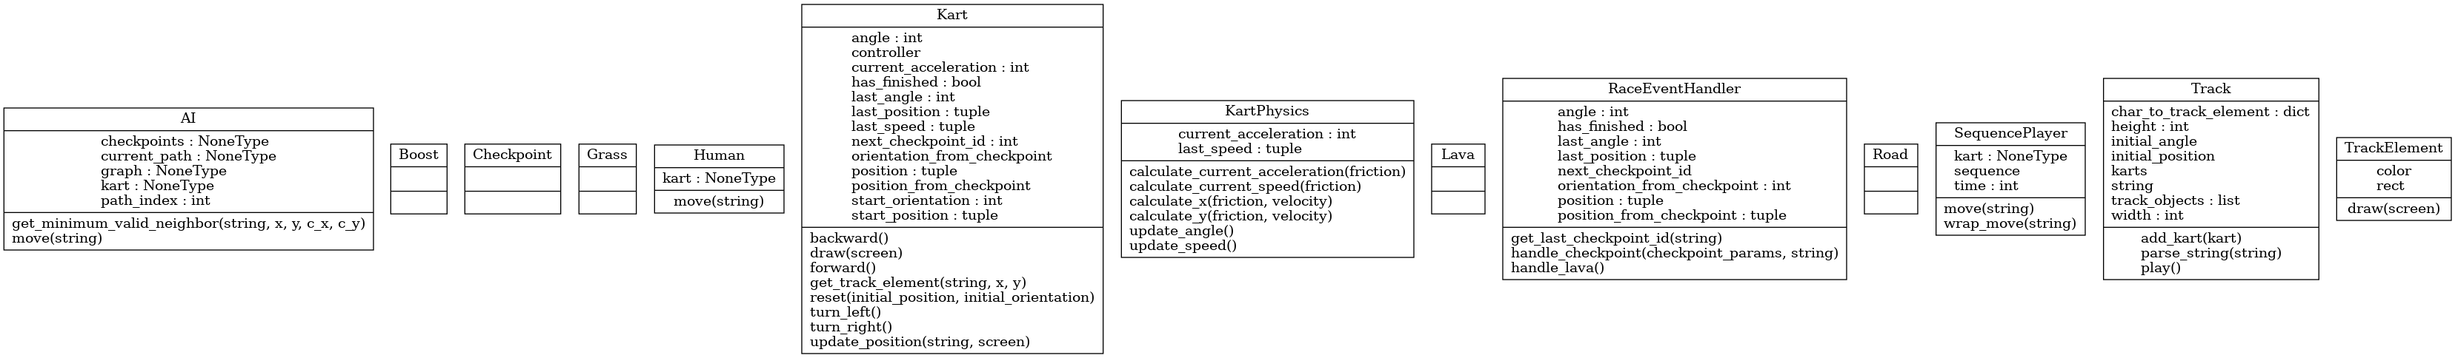
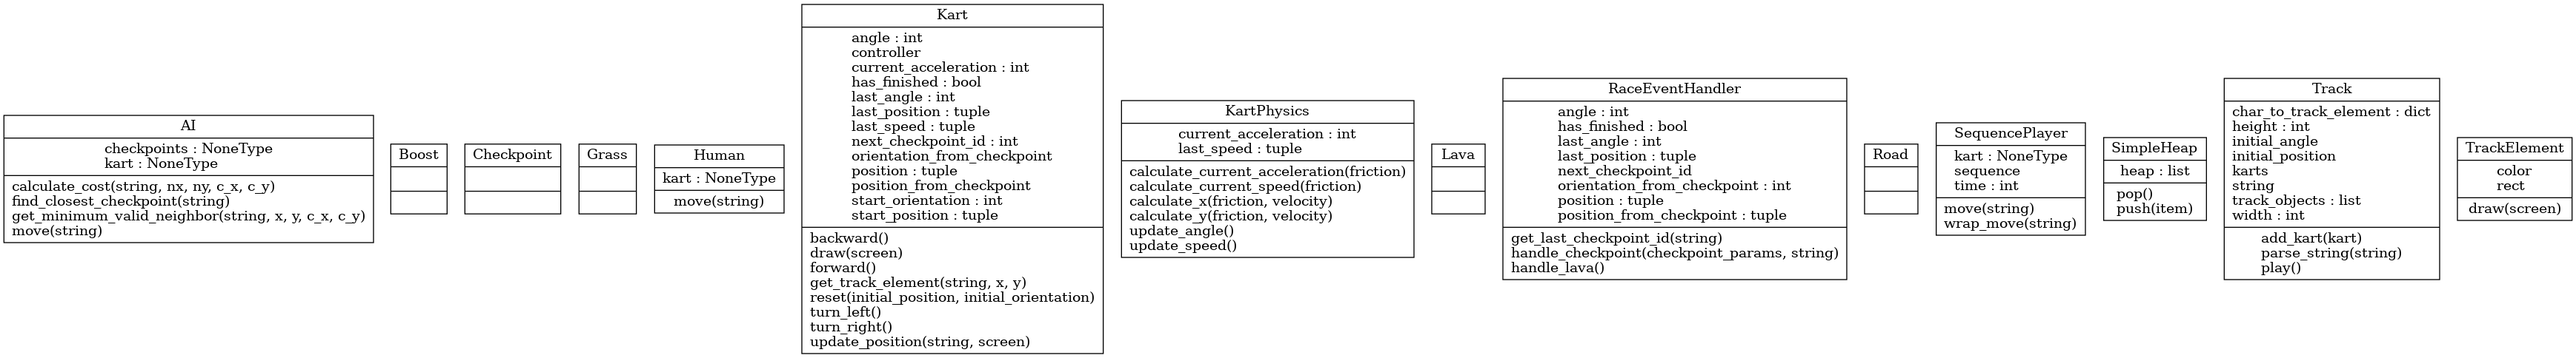
AI improvements
performance upgrade from 500 frames maximum AI performance to 391 with the same neighbor visiting level

diff --git a/ai.py b/ai.py
@@ -1,5 +1,5 @@
 import math
-import heapq
+from simpleHeap import SimpleHeap
 
 import pygame
 
@@ -13,10 +13,7 @@ class AI():
 
     Attributes:
         kart: The kart object controlled by the AI.
-        graph: The graph representing the track.
         checkpoints: The checkpoints on the track.
-        current_path: The current path the kart is following.
-        path_index: The index of the current position in the path.
     """
 
     def __init__(self):
@@ -24,10 +21,7 @@ class AI():
         Initialize the AI with default values.
         """
         self.kart = None
-        self.graph = None
         self.checkpoints = None
-        self.current_path = None
-        self.path_index = 0
 
     def move(self, string):
         """
@@ -40,36 +34,9 @@ class AI():
             dict: A dictionary of keys (UP, DOWN, LEFT, RIGHT) and corresponding boolean values.
         """
 
-        # Find the position of the next checkpoint
-        global char, col_index, row_index
-        if self.kart.next_checkpoint_id == 0:
-            char = 'C'
-        elif self.kart.next_checkpoint_id == 1:
-            char = 'D'
-        elif self.kart.next_checkpoint_id == 2:
-            char = 'E'
-        elif self.kart.next_checkpoint_id == 3:
-            char = 'F'
-
-        rows = string.split('\n')
-        rows = [row.strip() for row in rows if row.strip()]
-
-        for row_index in range(len(rows)):
-            row = rows[row_index]
-
-            for col_index in range(len(row)):
-                track_char = row[col_index]
-
-                if track_char == char:
-                    break
-            else:
-                continue
-            break
-
-        next_checkpoint_position = [col_index * BLOCK_SIZE + .5 * BLOCK_SIZE, row_index * BLOCK_SIZE + .5 * BLOCK_SIZE]
-        print(next_checkpoint_position)
+        closest_checkpoint = self.find_closest_checkpoint(string)
         next_move = self.get_minimum_valid_neighbor(string, self.kart.position[0], self.kart.position[1],
-                                                    next_checkpoint_position[0], next_checkpoint_position[1])
+                                                    closest_checkpoint[0], closest_checkpoint[1])
 
         if next_move:
             next_point = next_move
@@ -107,40 +74,33 @@ class AI():
             tuple: The coordinates of the minimum valid neighbor position.
         """
         # when you increase this value, the kart performs better but slows the code, I recommend 30
-        degree_level = 30
+        degree_level = 50
         x, y = int(x), int(y)
         rows = len(string)
         cols = len(string[0])
 
-        # Use a set for possible_neighbors
         possible_neighbors = {
             (int(x + i), int(y + j))
             for i in range(-degree_level, degree_level + 1)
             for j in range(-degree_level, degree_level + 1)
             if i != 0 or j != 0
         }
-
-
-        # Use a generator expression for valid_neighbors
         valid_neighbors = (
             (nx, ny)
             for nx, ny in possible_neighbors
             if self.kart.get_track_element(string, nx, ny)[0].__name__ in ("Road", "Boost", "Checkpoint", "Grass")
         )
 
-        priority_queue = []
-        
+        priority_queue = SimpleHeap()
+
         for nx, ny in valid_neighbors:
             cost = self.calculate_cost(string, nx, ny, c_x, c_y)
-            heapq.heappush(priority_queue, (cost, (nx, ny)))
-
-        # Pop the minimum cost neighbor from the priority queue
-        min_valid_neighbor = heapq.heappop(priority_queue)[1]
+            SimpleHeap.push(priority_queue, (cost, (nx, ny)))
+        min_valid_neighbor = SimpleHeap.pop(priority_queue)[1]
 
         return min_valid_neighbor
 
     def calculate_cost(self, string, nx, ny, c_x, c_y):
-        # Calculate the cost based on the track element and distance to the checkpoint
         track_element = self.kart.get_track_element(string, nx, ny)[0].__name__
         distance_to_checkpoint = abs(nx - c_x) + abs(ny - c_y)
 
@@ -150,3 +110,50 @@ class AI():
         elif track_element == "Grass":
             # Add 100 for grass and distance to checkpoint
             return 100 + distance_to_checkpoint
+
+    def find_closest_checkpoint(self, string):
+        """
+        Find the closest checkpoint with the correct ID to the kart's current position.
+
+        Returns:
+            tuple: The position of the closest checkpoint.
+        """
+        kart_x, kart_y = self.kart.position[0], self.kart.position[1]
+        kart_next_checkpoint_id = self.kart.next_checkpoint_id
+
+        checkpoints = []
+
+        char = ''
+        if kart_next_checkpoint_id == 0:
+            char = 'C'
+        elif kart_next_checkpoint_id == 1:
+            char = 'D'
+        elif kart_next_checkpoint_id == 2:
+            char = 'E'
+        elif kart_next_checkpoint_id == 3:
+            char = 'F'
+
+        rows = string.split('\n')
+        rows = [row.strip() for row in rows if row.strip()]
+
+        for row_index in range(len(rows)):
+            row = rows[row_index]
+            for col_index in range(len(row)):
+                track_char = row[col_index]
+                if track_char == char:
+                    checkpoints.append((col_index * BLOCK_SIZE + 0.5 * BLOCK_SIZE,
+                                        row_index * BLOCK_SIZE + 0.5 * BLOCK_SIZE))
+
+        closest_checkpoint = None
+        min_distance = float('inf')
+
+        for checkpoint in checkpoints:
+            c_x, c_y = checkpoint
+            distance_to_checkpoint = abs(kart_x - c_x) + abs(kart_y - c_y)
+
+            if distance_to_checkpoint < min_distance:
+                min_distance = distance_to_checkpoint
+                closest_checkpoint = checkpoint
+
+        return closest_checkpoint
+

diff --git a/simpleHeap.py b/simpleHeap.py
@@ -1,0 +1,49 @@
+class SimpleHeap:
+
+    def __init__(self):
+        self.heap = []
+
+    def push(self, item):
+        self.heap.append(item)
+        self._heapify_up()
+
+    def pop(self):
+        if not self.heap:
+            raise IndexError("pop from an empty heap")
+        if len(self.heap) == 1:
+            return self.heap.pop()
+
+        root = self.heap[0]
+        self.heap[0] = self.heap.pop()
+        self._heapify_down()
+
+        return root
+
+    def _heapify_up(self):
+        index = len(self.heap) - 1
+        while index > 0:
+            parent_index = (index - 1) // 2
+            if self.heap[index][0] < self.heap[parent_index][0]:
+                self.heap[index], self.heap[parent_index] = self.heap[parent_index], self.heap[index]
+                index = parent_index
+            else:
+                break
+
+    def _heapify_down(self):
+        index = 0
+        while True:
+            left_child_index = 2 * index + 1
+            right_child_index = 2 * index + 2
+            smallest = index
+
+            if left_child_index < len(self.heap) and self.heap[left_child_index][0] < self.heap[smallest][0]:
+                smallest = left_child_index
+
+            if right_child_index < len(self.heap) and self.heap[right_child_index][0] < self.heap[smallest][0]:
+                smallest = right_child_index
+
+            if smallest != index:
+                self.heap[index], self.heap[smallest] = self.heap[smallest], self.heap[index]
+                index = smallest
+            else:
+                break
